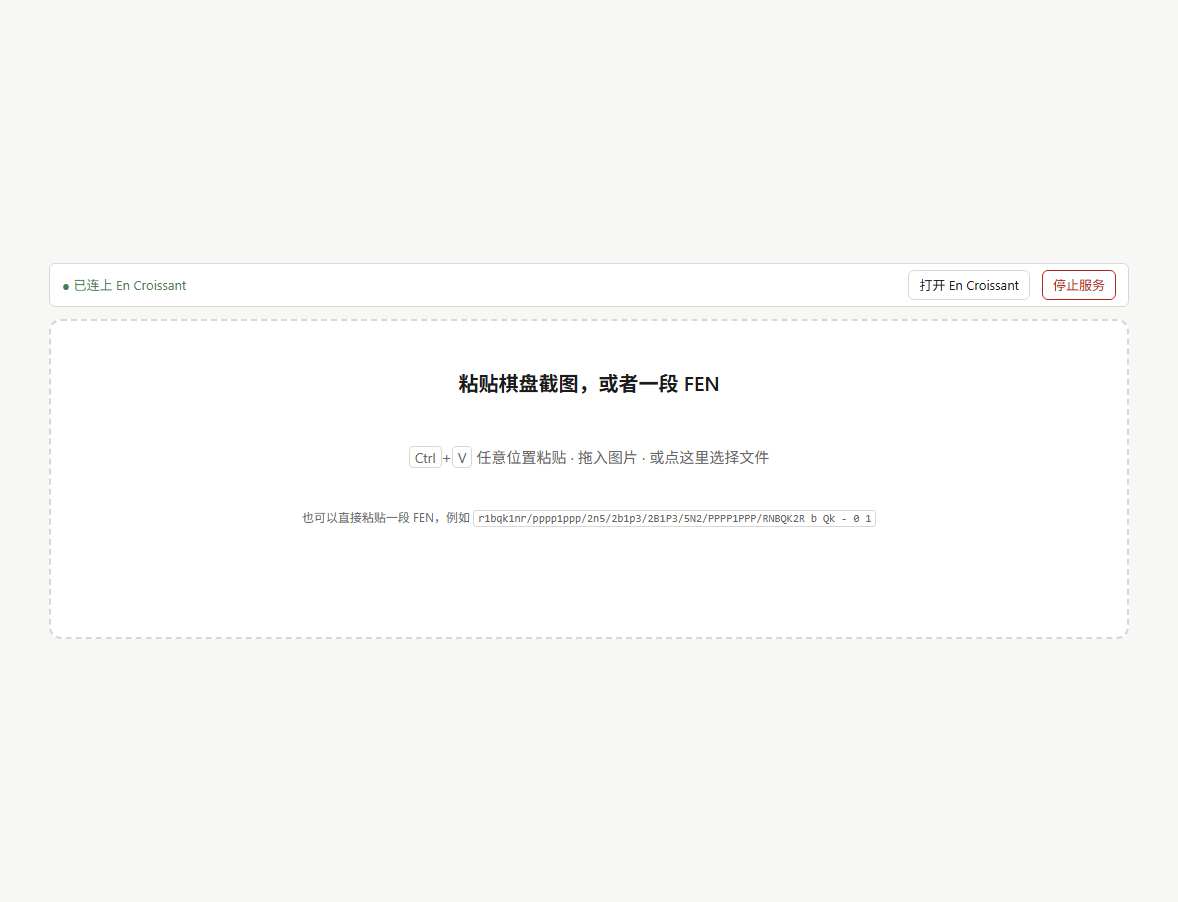
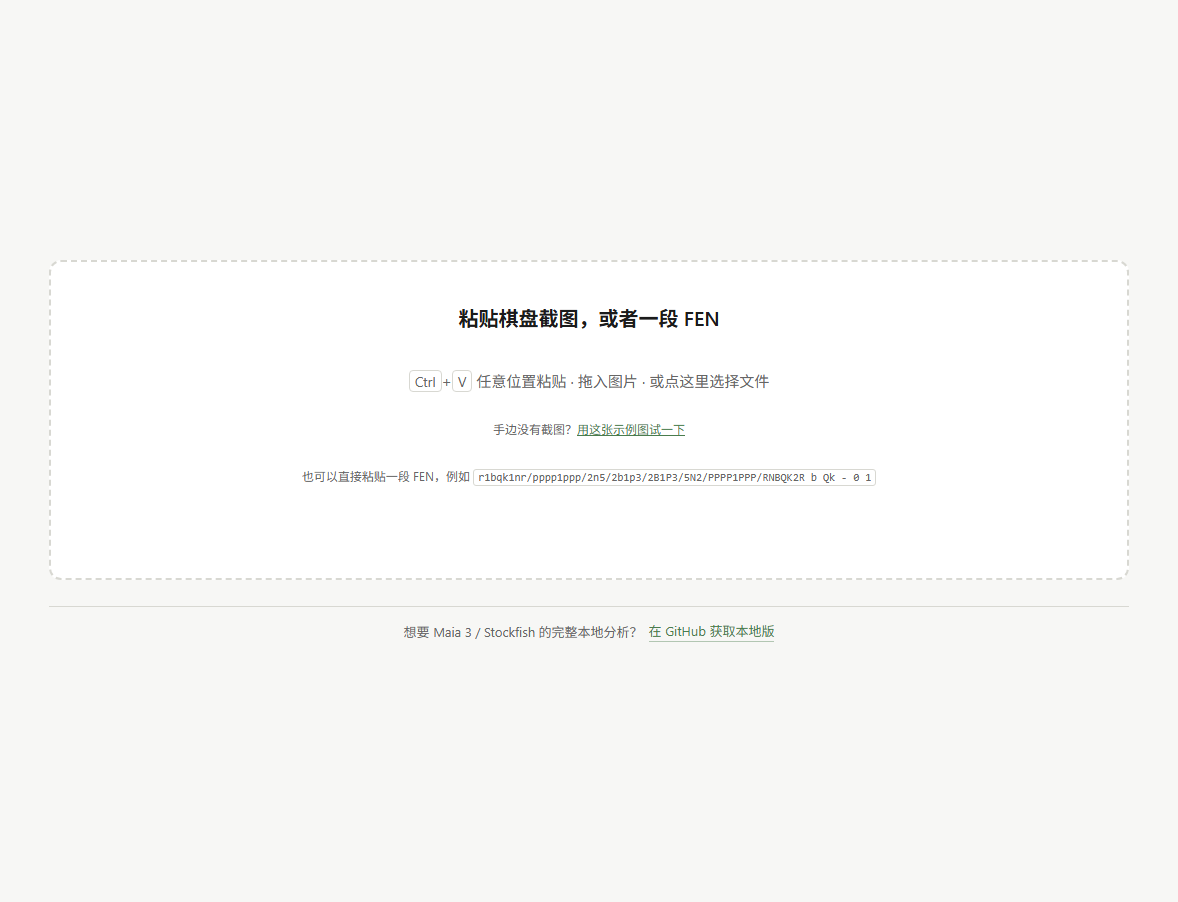
feat: a footer that sends web visitors to the repo
The static build can only set the position up and hand it to lichess; the real
analysis (Maia 3 / Stockfish) needs the local install. The footer says that
plainly and links there, and says something different on the local build (source
and issue tracker) instead of telling people to install what they already have.

diff --git a/src/main.js b/src/main.js
@@ -11,7 +11,7 @@ import { createService } from "./service.mjs";
 import { installDevHooks } from "./devhooks.mjs";
 import { staticMode } from "./mode.mjs";
 import { rotateHighlights } from "./highlight.mjs";
-import { actionsRow, castlingControls, dropzoneHtml, escapeHtml, noticeBlock, paletteHtml, recentList, statusStrip, toggleButton } from "./view.mjs";
+import { actionsRow, castlingControls, dropzoneHtml, escapeHtml, footerHtml, noticeBlock, paletteHtml, recentList, statusStrip, toggleButton } from "./view.mjs";
 import { installBoardEditing } from "./board-editing.mjs";
 import { highlightSquares } from "./sampling.mjs";
 import { loadRecent, pushRecent } from "./history.mjs";
@@ -455,9 +455,11 @@ function bind(actions) {
 }
 
 function render() {
-  if (state.kind === "idle" || state.kind === "scanning") return renderIdleOrScanning();
-  if (state.kind === "noboard") return renderNoBoard();
-  return renderResult();
+  if (state.kind === "idle" || state.kind === "scanning") renderIdleOrScanning();
+  else if (state.kind === "noboard") renderNoBoard();
+  else renderResult();
+  // 页脚每次都重新追加：上面三个渲染函数都重写了 #app 的内容
+  app.insertAdjacentHTML("beforeend", footerHtml({ staticMode }));
 }
 
 // Ctrl+Z / Cmd+Z 撤销一步编辑。只在结果页生效，且不要在输入框里抢键。

diff --git a/src/style.css b/src/style.css
@@ -635,3 +635,26 @@ table.fixtures tr.pass td:nth-child(3) {
   color: var(--muted);
   font-size: 12px;
 }
+
+.site-footer {
+  display: flex;
+  align-items: center;
+  gap: 6px;
+  flex-wrap: wrap;
+  justify-content: center;
+  margin-top: 26px;
+  padding-top: 14px;
+  border-top: 1px solid var(--line);
+  font-size: 13px;
+  color: var(--muted);
+}
+
+.site-footer a {
+  color: var(--accent);
+  text-decoration: none;
+  border-bottom: 1px solid color-mix(in srgb, var(--accent) 40%, transparent);
+}
+
+.site-footer a:hover {
+  border-bottom-color: var(--accent);
+}

diff --git a/README.md b/README.md
@@ -6,6 +6,9 @@
 
 **English**: [README.en.md](README.en.md)
 
+线上版页脚有指向本仓库的链接（"想要 Maia 3 / Stockfish 的完整本地分析？在 GitHub 获取本地版"），
+因为静态版做不了引擎分析，完整体验要本地跑。
+
 **在线试（静态版，无需安装）**：<https://pt-chess-assistant.ptlantern.workers.dev>
 —— 只能"贴图/贴 FEN → 摆好 → 复制 FEN 或去 lichess 分析"，没有本地引擎（那是设计如此）。
 
